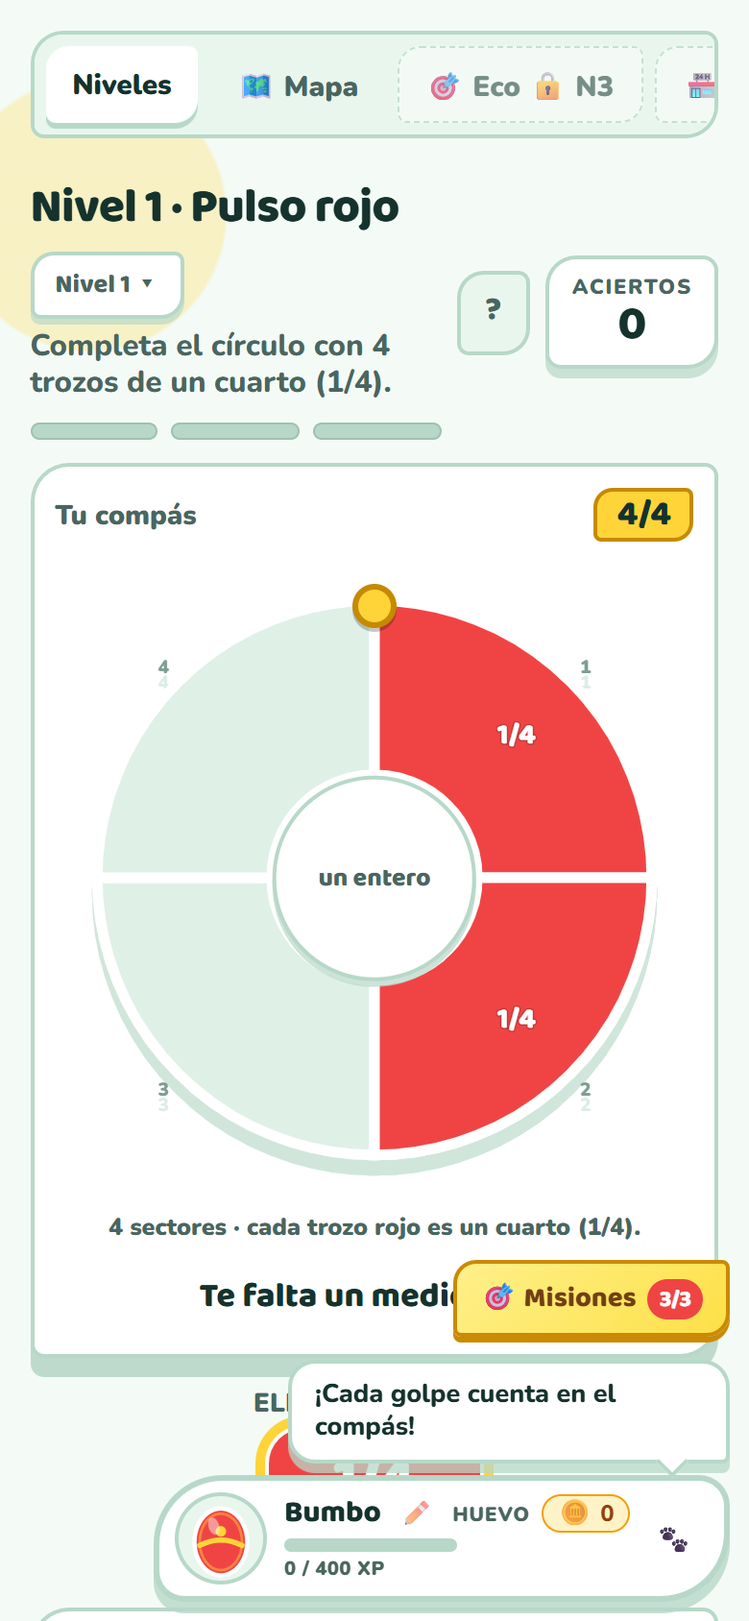
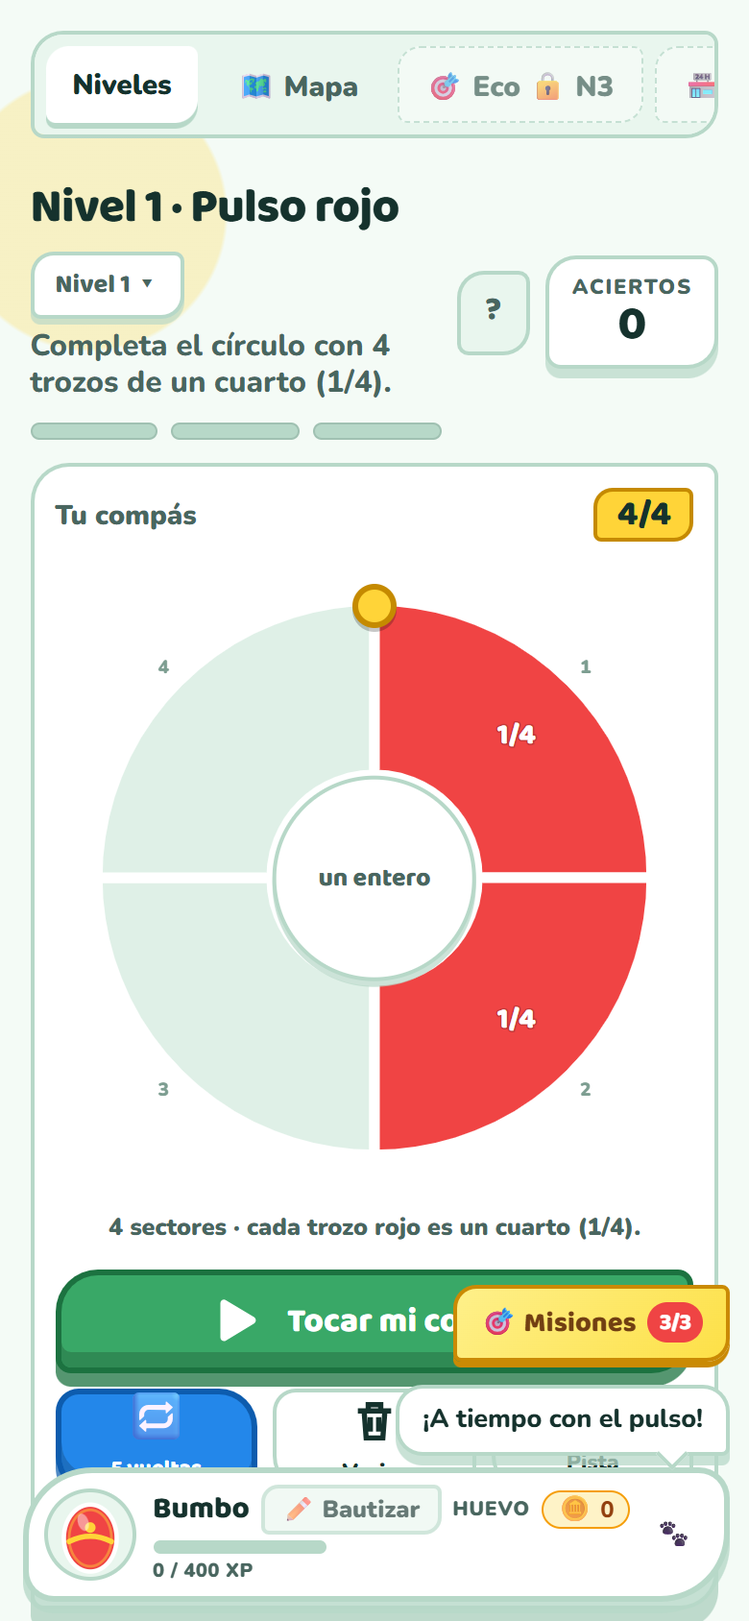
fix: optimización móvil real — ancho del creador, fluidez y orden
Corrige el bug 'Mi ritmo se ve al doble de ancho':
- La fila de 7 pastillas de sonido y los selects con textos largos
  inflaban el min-content del grid a ~640px → el navegador móvil
  hacía zoom-out. Tracks minmax(0,1fr) + selects con etiquetas
  cortas: el creador ahora mide exactamente el viewport (390/360px)
- Compases del creador en 1 columna en cel: blancos táctiles grandes

Fluidez (render en Android):
- Filtros costosos fuera en móvil: drop-shadow de las ruedas SVG,
  pulse simplificado a brillo, blur de 5 modales desactivado

Orden y limpieza (feedback del usuario):
- Botones Tocar/5 vueltas/Vaciar/Pista ahora DENTRO del compás
- Bloques rítmicos más compactos (82x68 en juego, 66x56 en creador)
- '✏ Bautizar' visible con etiqueta (antes casi invisible)
- Creador: opciones secundarias desplegables bajo '⋯ Más opciones'
  (firmas, biblioteca, descargas y compartir)

Verificado a 390px y 360px: 0 desbordes, 0 errores

diff --git a/index.html b/index.html
@@ -308,21 +308,7 @@
       </div>
       <p class="circle-guide" id="circleGuide">4 sectores · cada trozo rojo es un cuarto (1/4).</p>
       <button class="detective-listen" id="detectiveListen" type="button">Escuchar el ritmo secreto</button>
-      <p class="loop-counter" id="loopCounter" aria-live="polite"></p>
-      <p class="feedback" id="feedback">Ahora tú: elige rojo y completa el círculo.</p>
-    </section>
-
-    <section class="tray-wrap" aria-label="Bandeja de bloques rítmicos">
-      <p class="tray-title">ELIGE UN BLOQUE</p>
-      <div class="tray" id="tray"><button type="button" class="rhythm-block red selected" data-type="quarter" aria-pressed="true" aria-label="Pulso: un cuarto, 1/4"><span class="fraction">1/4</span><span class="name">un cuarto</span></button></div>
-    </section>
-
-    <section class="sound-picker" aria-labelledby="soundPickerTitle">
-      <p class="sound-picker-title" id="soundPickerTitle">ELIGE CÓMO SUENA TU RITMO</p>
-      <div class="sound-options" id="soundOptions"><button type="button" class="sound-option sound-drum selected" aria-pressed="true" aria-label="Tambor. Toca para escuchar y elegir."><svg viewBox="0 0 32 32" aria-hidden="true"><ellipse cx="16" cy="8" rx="10" ry="4"></ellipse><path d="M6 8v15c0 2 4.5 4 10 4s10-2 10-4V8M6 16c0 2 4.5 4 10 4s10-2 10-4"></path></svg><strong>Tambor</strong></button><button type="button" class="sound-option sound-kick" aria-pressed="false" aria-label="Bombo. Toca para escuchar y elegir."><svg viewBox="0 0 32 32" aria-hidden="true"><circle cx="16" cy="16" r="11"></circle><circle cx="16" cy="16" r="4"></circle><path d="M5 27h22"></path></svg><strong>Bombo</strong></button><button type="button" class="sound-option sound-snare" aria-pressed="false" aria-label="Caja. Toca para escuchar y elegir."><svg viewBox="0 0 32 32" aria-hidden="true"><ellipse cx="16" cy="10" rx="10" ry="4"></ellipse><path d="M6 10v11c0 2 4.5 4 10 4s10-2 10-4V10M8 23l16-10M8 13l16 10"></path></svg><strong>Caja</strong></button><button type="button" class="sound-option sound-shaker" aria-pressed="false" aria-label="Shaker. Toca para escuchar y elegir."><svg viewBox="0 0 32 32" aria-hidden="true"><path d="M11 5h10l3 6-4 16h-8L8 11l3-6Z"></path><path d="M9 12h14"></path></svg><strong>Shaker</strong></button><button type="button" class="sound-option sound-clap" aria-pressed="false" aria-label="Palmas. Toca para escuchar y elegir."><svg viewBox="0 0 32 32" aria-hidden="true"><path d="M8 17V8a2 2 0 0 1 4 0v7-10a2 2 0 0 1 4 0v10-8a2 2 0 0 1 4 0v9-6a2 2 0 0 1 4 0v10c0 5-4 8-9 8-6 0-9-4-11-8l4-3Z"></path></svg><strong>Palmas</strong></button><button type="button" class="sound-option sound-bell" aria-pressed="false" aria-label="Campana. Toca para escuchar y elegir."><svg viewBox="0 0 32 32" aria-hidden="true"><path d="M8 23h16l-3-4v-6a5 5 0 0 0-10 0v6l-3 4Z"></path><path d="M13 26c1 2 5 2 6 0"></path></svg><strong>Campana</strong></button><button type="button" class="sound-option sound-marimba" aria-pressed="false" aria-label="Marimba cálida. Toca para escuchar y elegir."><svg viewBox="0 0 32 32" aria-hidden="true"><rect x="4" y="6" width="5" height="20" rx="1.5" fill="currentColor"></rect><rect x="11" y="8" width="5" height="18" rx="1.5" fill="currentColor"></rect><rect x="18" y="10" width="5" height="16" rx="1.5" fill="currentColor"></rect><rect x="25" y="12" width="5" height="14" rx="1.5" fill="currentColor"></rect></svg><strong>Marimba cálida</strong></button><button type="button" class="sound-option sound-xylophone" aria-pressed="false" aria-label="Xilófono brillante. Toca para escuchar y elegir."><svg viewBox="0 0 32 32" aria-hidden="true"><polygon points="5,8 27,13 27,24 5,28" fill="none" stroke="currentColor" stroke-width="2"></polygon><line x1="9" y1="9" x2="9" y2="27" stroke="currentColor" stroke-width="2"></line><line x1="14" y1="10" x2="14" y2="26" stroke="currentColor" stroke-width="2"></line><line x1="19" y1="11" x2="19" y2="25" stroke="currentColor" stroke-width="2"></line><line x1="24" y1="12" x2="24" y2="24" stroke="currentColor" stroke-width="2"></line></svg><strong>Xilófono brillante</strong></button><button type="button" class="sound-option sound-flute" aria-pressed="false" aria-label="Flauta dulce. Toca para escuchar y elegir."><svg viewBox="0 0 32 32" aria-hidden="true"><rect x="4" y="13" width="24" height="6" rx="3" fill="none" stroke="currentColor" stroke-width="2"></rect><circle cx="10" cy="16" r="1.5" fill="currentColor"></circle><circle cx="15" cy="16" r="1.5" fill="currentColor"></circle><circle cx="20" cy="16" r="1.5" fill="currentColor"></circle><circle cx="25" cy="16" r="1.5" fill="currentColor"></circle></svg><strong>Flauta dulce</strong></button></div>
-    </section>
-
-    <div class="controls">
+      <div class="controls">
       <button class="play" id="play" type="button" aria-label="Tocar y comprobar el compás">
         <svg viewBox="0 0 32 32" aria-hidden="true"><path d="M8 5.7c0-1.5 1.7-2.4 3-1.6l15.1 9c1.3.8 1.3 2.7 0 3.5L11 25.8c-1.3.8-3-.1-3-1.7V5.7Z"></path></svg>
         <span>Tocar mi compás</span>
@@ -340,6 +326,21 @@
         <span>Pista</span>
       </button>
     </div>
+      <p class="loop-counter" id="loopCounter" aria-live="polite"></p>
+      <p class="feedback" id="feedback">Ahora tú: elige rojo y completa el círculo.</p>
+    </section>
+
+    <section class="tray-wrap" aria-label="Bandeja de bloques rítmicos">
+      <p class="tray-title">ELIGE UN BLOQUE</p>
+      <div class="tray" id="tray"><button type="button" class="rhythm-block red selected" data-type="quarter" aria-pressed="true" aria-label="Pulso: un cuarto, 1/4"><span class="fraction">1/4</span><span class="name">un cuarto</span></button></div>
+    </section>
+
+    <section class="sound-picker" aria-labelledby="soundPickerTitle">
+      <p class="sound-picker-title" id="soundPickerTitle">ELIGE CÓMO SUENA TU RITMO</p>
+      <div class="sound-options" id="soundOptions"><button type="button" class="sound-option sound-drum selected" aria-pressed="true" aria-label="Tambor. Toca para escuchar y elegir."><svg viewBox="0 0 32 32" aria-hidden="true"><ellipse cx="16" cy="8" rx="10" ry="4"></ellipse><path d="M6 8v15c0 2 4.5 4 10 4s10-2 10-4V8M6 16c0 2 4.5 4 10 4s10-2 10-4"></path></svg><strong>Tambor</strong></button><button type="button" class="sound-option sound-kick" aria-pressed="false" aria-label="Bombo. Toca para escuchar y elegir."><svg viewBox="0 0 32 32" aria-hidden="true"><circle cx="16" cy="16" r="11"></circle><circle cx="16" cy="16" r="4"></circle><path d="M5 27h22"></path></svg><strong>Bombo</strong></button><button type="button" class="sound-option sound-snare" aria-pressed="false" aria-label="Caja. Toca para escuchar y elegir."><svg viewBox="0 0 32 32" aria-hidden="true"><ellipse cx="16" cy="10" rx="10" ry="4"></ellipse><path d="M6 10v11c0 2 4.5 4 10 4s10-2 10-4V10M8 23l16-10M8 13l16 10"></path></svg><strong>Caja</strong></button><button type="button" class="sound-option sound-shaker" aria-pressed="false" aria-label="Shaker. Toca para escuchar y elegir."><svg viewBox="0 0 32 32" aria-hidden="true"><path d="M11 5h10l3 6-4 16h-8L8 11l3-6Z"></path><path d="M9 12h14"></path></svg><strong>Shaker</strong></button><button type="button" class="sound-option sound-clap" aria-pressed="false" aria-label="Palmas. Toca para escuchar y elegir."><svg viewBox="0 0 32 32" aria-hidden="true"><path d="M8 17V8a2 2 0 0 1 4 0v7-10a2 2 0 0 1 4 0v10-8a2 2 0 0 1 4 0v9-6a2 2 0 0 1 4 0v10c0 5-4 8-9 8-6 0-9-4-11-8l4-3Z"></path></svg><strong>Palmas</strong></button><button type="button" class="sound-option sound-bell" aria-pressed="false" aria-label="Campana. Toca para escuchar y elegir."><svg viewBox="0 0 32 32" aria-hidden="true"><path d="M8 23h16l-3-4v-6a5 5 0 0 0-10 0v6l-3 4Z"></path><path d="M13 26c1 2 5 2 6 0"></path></svg><strong>Campana</strong></button><button type="button" class="sound-option sound-marimba" aria-pressed="false" aria-label="Marimba cálida. Toca para escuchar y elegir."><svg viewBox="0 0 32 32" aria-hidden="true"><rect x="4" y="6" width="5" height="20" rx="1.5" fill="currentColor"></rect><rect x="11" y="8" width="5" height="18" rx="1.5" fill="currentColor"></rect><rect x="18" y="10" width="5" height="16" rx="1.5" fill="currentColor"></rect><rect x="25" y="12" width="5" height="14" rx="1.5" fill="currentColor"></rect></svg><strong>Marimba cálida</strong></button><button type="button" class="sound-option sound-xylophone" aria-pressed="false" aria-label="Xilófono brillante. Toca para escuchar y elegir."><svg viewBox="0 0 32 32" aria-hidden="true"><polygon points="5,8 27,13 27,24 5,28" fill="none" stroke="currentColor" stroke-width="2"></polygon><line x1="9" y1="9" x2="9" y2="27" stroke="currentColor" stroke-width="2"></line><line x1="14" y1="10" x2="14" y2="26" stroke="currentColor" stroke-width="2"></line><line x1="19" y1="11" x2="19" y2="25" stroke="currentColor" stroke-width="2"></line><line x1="24" y1="12" x2="24" y2="24" stroke="currentColor" stroke-width="2"></line></svg><strong>Xilófono brillante</strong></button><button type="button" class="sound-option sound-flute" aria-pressed="false" aria-label="Flauta dulce. Toca para escuchar y elegir."><svg viewBox="0 0 32 32" aria-hidden="true"><rect x="4" y="13" width="24" height="6" rx="3" fill="none" stroke="currentColor" stroke-width="2"></rect><circle cx="10" cy="16" r="1.5" fill="currentColor"></circle><circle cx="15" cy="16" r="1.5" fill="currentColor"></circle><circle cx="20" cy="16" r="1.5" fill="currentColor"></circle><circle cx="25" cy="16" r="1.5" fill="currentColor"></circle></svg><strong>Flauta dulce</strong></button></div>
+    </section>
+
+    </section>
 
     
     <!-- PANE 3: SALAS ONLINE EN TIEMPO REAL (FASE 8) -->
@@ -428,7 +429,7 @@
       <div class="pet-info">
         <div class="pet-name-row">
           <span class="pet-name" id="petWidgetName">Bumbo</span>
-          <button class="pet-rename-btn" id="petRenameBtn" type="button" title="Bautizar mascota" aria-label="Bautizar mascota">✏</button>
+          <button class="pet-rename-btn" id="petRenameBtn" type="button" title="Bautizar mascota" aria-label="Bautizar mascota">✏ Bautizar</button>
           <span class="pet-stage-tag" id="petWidgetStage">Huevo</span>
           <span class="pet-coins-tag" id="petWidgetCoins" title="Monedas de ritmo"><span class="coin-icon">🪙</span> <span id="petCoinsCount">0</span></span>
         </div>
@@ -595,7 +596,7 @@
         <section class="studio-panel" aria-labelledby="fourBarsTitle">
           <h2 class="panel-title" id="fourBarsTitle">Tus 4 compases</h2>
           <p class="panel-note">Elige un compás, un bloque y toca el círculo. Cada círculo completo vale un entero.</p>
-          <div class="creator-measures" id="creatorMeasures"><article class="creator-measure active"><h3>Compás 1 · 0/8</h3><svg viewBox="0 0 240 240" class="mini-wheel" role="group" aria-label="Compás 1"><path d="M 120 15 A 105 105 0 0 1 194.2462120245875 45.75378797541252 L 149.698484809835 90.301515190165 A 42 42 0 0 0 120 78 Z" class="wheel-slot" tabindex="0" role="button" aria-label="Trozo 1"></path><path d="M 194.2462120245875 45.75378797541252 A 105 105 0 0 1 225 120 L 162 120 A 42 42 0 0 0 149.698484809835 90.301515190165 Z" class="wheel-slot" tabindex="0" role="button" aria-label="Trozo 2"></path><path d="M 225 120 A 105 105 0 0 1 194.2462120245875 194.24621202458746 L 149.698484809835 149.698484809835 A 42 42 0 0 0 162 120 Z" class="wheel-slot" tabindex="0" role="button" aria-label="Trozo 3"></path><path d="M 194.2462120245875 194.24621202458746 A 105 105 0 0 1 120 225 L 120 162 A 42 42 0 0 0 149.698484809835 149.698484809835 Z" class="wheel-slot" tabindex="0" role="button" aria-label="Trozo 4"></path><path d="M 120 225 A 105 105 0 0 1 45.75378797541252 194.2462120245875 L 90.301515190165 149.698484809835 A 42 42 0 0 0 120 162 Z" class="wheel-slot" tabindex="0" role="button" aria-label="Trozo 5"></path><path d="M 45.75378797541252 194.2462120245875 A 105 105 0 0 1 15 120.00000000000001 L 78 120 A 42 42 0 0 0 90.301515190165 149.698484809835 Z" class="wheel-slot" tabindex="0" role="button" aria-label="Trozo 6"></path><path d="M 15 120.00000000000001 A 105 105 0 0 1 45.75378797541249 45.75378797541252 L 90.30151519016499 90.301515190165 A 42 42 0 0 0 78 120 Z" class="wheel-slot" tabindex="0" role="button" aria-label="Trozo 7"></path><path d="M 45.75378797541249 45.75378797541252 A 105 105 0 0 1 119.99999999999999 15 L 119.99999999999999 78 A 42 42 0 0 0 90.30151519016499 90.301515190165 Z" class="wheel-slot" tabindex="0" role="button" aria-label="Trozo 8"></path></svg><select class="measure-sound" aria-label="Sonido del compás 1"><option value="drum">Tambor</option><option value="kick">Bombo</option><option value="snare">Caja</option><option value="shaker">Shaker</option><option value="clap">Palmas</option><option value="bell">Campana</option><option value="piano">Piano juguetón</option><option value="guitar">Cuerda pulsada</option><option value="strings">Colchón de cuerdas</option><option value="marimba">Marimba cálida</option><option value="xylophone">Xilófono brillante</option><option value="flute">Flauta dulce</option><option value="bells" disabled="">Campanitas mágicas (🔒 Mercadito)</option><option value="synth" disabled="">Sintetizador pop (🔒 Mercadito)</option></select></article><article class="creator-measure"><h3>Compás 2 · 0/8</h3><svg viewBox="0 0 240 240" class="mini-wheel" role="group" aria-label="Compás 2"><path d="M 120 15 A 105 105 0 0 1 194.2462120245875 45.75378797541252 L 149.698484809835 90.301515190165 A 42 42 0 0 0 120 78 Z" class="wheel-slot" tabindex="0" role="button" aria-label="Trozo 1"></path><path d="M 194.2462120245875 45.75378797541252 A 105 105 0 0 1 225 120 L 162 120 A 42 42 0 0 0 149.698484809835 90.301515190165 Z" class="wheel-slot" tabindex="0" role="button" aria-label="Trozo 2"></path><path d="M 225 120 A 105 105 0 0 1 194.2462120245875 194.24621202458746 L 149.698484809835 149.698484809835 A 42 42 0 0 0 162 120 Z" class="wheel-slot" tabindex="0" role="button" aria-label="Trozo 3"></path><path d="M 194.2462120245875 194.24621202458746 A 105 105 0 0 1 120 225 L 120 162 A 42 42 0 0 0 149.698484809835 149.698484809835 Z" class="wheel-slot" tabindex="0" role="button" aria-label="Trozo 4"></path><path d="M 120 225 A 105 105 0 0 1 45.75378797541252 194.2462120245875 L 90.301515190165 149.698484809835 A 42 42 0 0 0 120 162 Z" class="wheel-slot" tabindex="0" role="button" aria-label="Trozo 5"></path><path d="M 45.75378797541252 194.2462120245875 A 105 105 0 0 1 15 120.00000000000001 L 78 120 A 42 42 0 0 0 90.301515190165 149.698484809835 Z" class="wheel-slot" tabindex="0" role="button" aria-label="Trozo 6"></path><path d="M 15 120.00000000000001 A 105 105 0 0 1 45.75378797541249 45.75378797541252 L 90.30151519016499 90.301515190165 A 42 42 0 0 0 78 120 Z" class="wheel-slot" tabindex="0" role="button" aria-label="Trozo 7"></path><path d="M 45.75378797541249 45.75378797541252 A 105 105 0 0 1 119.99999999999999 15 L 119.99999999999999 78 A 42 42 0 0 0 90.30151519016499 90.301515190165 Z" class="wheel-slot" tabindex="0" role="button" aria-label="Trozo 8"></path></svg><select class="measure-sound" aria-label="Sonido del compás 2"><option value="drum">Tambor</option><option value="kick">Bombo</option><option value="snare">Caja</option><option value="shaker">Shaker</option><option value="clap">Palmas</option><option value="bell">Campana</option><option value="piano">Piano juguetón</option><option value="guitar">Cuerda pulsada</option><option value="strings">Colchón de cuerdas</option><option value="marimba">Marimba cálida</option><option value="xylophone">Xilófono brillante</option><option value="flute">Flauta dulce</option><option value="bells" disabled="">Campanitas mágicas (🔒 Mercadito)</option><option value="synth" disabled="">Sintetizador pop (🔒 Mercadito)</option></select></article><article class="creator-measure"><h3>Compás 3 · 0/8</h3><svg viewBox="0 0 240 240" class="mini-wheel" role="group" aria-label="Compás 3"><path d="M 120 15 A 105 105 0 0 1 194.2462120245875 45.75378797541252 L 149.698484809835 90.301515190165 A 42 42 0 0 0 120 78 Z" class="wheel-slot" tabindex="0" role="button" aria-label="Trozo 1"></path><path d="M 194.2462120245875 45.75378797541252 A 105 105 0 0 1 225 120 L 162 120 A 42 42 0 0 0 149.698484809835 90.301515190165 Z" class="wheel-slot" tabindex="0" role="button" aria-label="Trozo 2"></path><path d="M 225 120 A 105 105 0 0 1 194.2462120245875 194.24621202458746 L 149.698484809835 149.698484809835 A 42 42 0 0 0 162 120 Z" class="wheel-slot" tabindex="0" role="button" aria-label="Trozo 3"></path><path d="M 194.2462120245875 194.24621202458746 A 105 105 0 0 1 120 225 L 120 162 A 42 42 0 0 0 149.698484809835 149.698484809835 Z" class="wheel-slot" tabindex="0" role="button" aria-label="Trozo 4"></path><path d="M 120 225 A 105 105 0 0 1 45.75378797541252 194.2462120245875 L 90.301515190165 149.698484809835 A 42 42 0 0 0 120 162 Z" class="wheel-slot" tabindex="0" role="button" aria-label="Trozo 5"></path><path d="M 45.75378797541252 194.2462120245875 A 105 105 0 0 1 15 120.00000000000001 L 78 120 A 42 42 0 0 0 90.301515190165 149.698484809835 Z" class="wheel-slot" tabindex="0" role="button" aria-label="Trozo 6"></path><path d="M 15 120.00000000000001 A 105 105 0 0 1 45.75378797541249 45.75378797541252 L 90.30151519016499 90.301515190165 A 42 42 0 0 0 78 120 Z" class="wheel-slot" tabindex="0" role="button" aria-label="Trozo 7"></path><path d="M 45.75378797541249 45.75378797541252 A 105 105 0 0 1 119.99999999999999 15 L 119.99999999999999 78 A 42 42 0 0 0 90.30151519016499 90.301515190165 Z" class="wheel-slot" tabindex="0" role="button" aria-label="Trozo 8"></path></svg><select class="measure-sound" aria-label="Sonido del compás 3"><option value="drum">Tambor</option><option value="kick">Bombo</option><option value="snare">Caja</option><option value="shaker">Shaker</option><option value="clap">Palmas</option><option value="bell">Campana</option><option value="piano">Piano juguetón</option><option value="guitar">Cuerda pulsada</option><option value="strings">Colchón de cuerdas</option><option value="marimba">Marimba cálida</option><option value="xylophone">Xilófono brillante</option><option value="flute">Flauta dulce</option><option value="bells" disabled="">Campanitas mágicas (🔒 Mercadito)</option><option value="synth" disabled="">Sintetizador pop (🔒 Mercadito)</option></select></article><article class="creator-measure"><h3>Compás 4 · 0/8</h3><svg viewBox="0 0 240 240" class="mini-wheel" role="group" aria-label="Compás 4"><path d="M 120 15 A 105 105 0 0 1 194.2462120245875 45.75378797541252 L 149.698484809835 90.301515190165 A 42 42 0 0 0 120 78 Z" class="wheel-slot" tabindex="0" role="button" aria-label="Trozo 1"></path><path d="M 194.2462120245875 45.75378797541252 A 105 105 0 0 1 225 120 L 162 120 A 42 42 0 0 0 149.698484809835 90.301515190165 Z" class="wheel-slot" tabindex="0" role="button" aria-label="Trozo 2"></path><path d="M 225 120 A 105 105 0 0 1 194.2462120245875 194.24621202458746 L 149.698484809835 149.698484809835 A 42 42 0 0 0 162 120 Z" class="wheel-slot" tabindex="0" role="button" aria-label="Trozo 3"></path><path d="M 194.2462120245875 194.24621202458746 A 105 105 0 0 1 120 225 L 120 162 A 42 42 0 0 0 149.698484809835 149.698484809835 Z" class="wheel-slot" tabindex="0" role="button" aria-label="Trozo 4"></path><path d="M 120 225 A 105 105 0 0 1 45.75378797541252 194.2462120245875 L 90.301515190165 149.698484809835 A 42 42 0 0 0 120 162 Z" class="wheel-slot" tabindex="0" role="button" aria-label="Trozo 5"></path><path d="M 45.75378797541252 194.2462120245875 A 105 105 0 0 1 15 120.00000000000001 L 78 120 A 42 42 0 0 0 90.301515190165 149.698484809835 Z" class="wheel-slot" tabindex="0" role="button" aria-label="Trozo 6"></path><path d="M 15 120.00000000000001 A 105 105 0 0 1 45.75378797541249 45.75378797541252 L 90.30151519016499 90.301515190165 A 42 42 0 0 0 78 120 Z" class="wheel-slot" tabindex="0" role="button" aria-label="Trozo 7"></path><path d="M 45.75378797541249 45.75378797541252 A 105 105 0 0 1 119.99999999999999 15 L 119.99999999999999 78 A 42 42 0 0 0 90.30151519016499 90.301515190165 Z" class="wheel-slot" tabindex="0" role="button" aria-label="Trozo 8"></path></svg><select class="measure-sound" aria-label="Sonido del compás 4"><option value="drum">Tambor</option><option value="kick">Bombo</option><option value="snare">Caja</option><option value="shaker">Shaker</option><option value="clap">Palmas</option><option value="bell">Campana</option><option value="piano">Piano juguetón</option><option value="guitar">Cuerda pulsada</option><option value="strings">Colchón de cuerdas</option><option value="marimba">Marimba cálida</option><option value="xylophone">Xilófono brillante</option><option value="flute">Flauta dulce</option><option value="bells" disabled="">Campanitas mágicas (🔒 Mercadito)</option><option value="synth" disabled="">Sintetizador pop (🔒 Mercadito)</option></select></article></div>
+          <div class="creator-measures" id="creatorMeasures"><article class="creator-measure active"><h3>Compás 1 · 0/8</h3><svg viewBox="0 0 240 240" class="mini-wheel" role="group" aria-label="Compás 1"><path d="M 120 15 A 105 105 0 0 1 194.2462120245875 45.75378797541252 L 149.698484809835 90.301515190165 A 42 42 0 0 0 120 78 Z" class="wheel-slot" tabindex="0" role="button" aria-label="Trozo 1"></path><path d="M 194.2462120245875 45.75378797541252 A 105 105 0 0 1 225 120 L 162 120 A 42 42 0 0 0 149.698484809835 90.301515190165 Z" class="wheel-slot" tabindex="0" role="button" aria-label="Trozo 2"></path><path d="M 225 120 A 105 105 0 0 1 194.2462120245875 194.24621202458746 L 149.698484809835 149.698484809835 A 42 42 0 0 0 162 120 Z" class="wheel-slot" tabindex="0" role="button" aria-label="Trozo 3"></path><path d="M 194.2462120245875 194.24621202458746 A 105 105 0 0 1 120 225 L 120 162 A 42 42 0 0 0 149.698484809835 149.698484809835 Z" class="wheel-slot" tabindex="0" role="button" aria-label="Trozo 4"></path><path d="M 120 225 A 105 105 0 0 1 45.75378797541252 194.2462120245875 L 90.301515190165 149.698484809835 A 42 42 0 0 0 120 162 Z" class="wheel-slot" tabindex="0" role="button" aria-label="Trozo 5"></path><path d="M 45.75378797541252 194.2462120245875 A 105 105 0 0 1 15 120.00000000000001 L 78 120 A 42 42 0 0 0 90.301515190165 149.698484809835 Z" class="wheel-slot" tabindex="0" role="button" aria-label="Trozo 6"></path><path d="M 15 120.00000000000001 A 105 105 0 0 1 45.75378797541249 45.75378797541252 L 90.30151519016499 90.301515190165 A 42 42 0 0 0 78 120 Z" class="wheel-slot" tabindex="0" role="button" aria-label="Trozo 7"></path><path d="M 45.75378797541249 45.75378797541252 A 105 105 0 0 1 119.99999999999999 15 L 119.99999999999999 78 A 42 42 0 0 0 90.30151519016499 90.301515190165 Z" class="wheel-slot" tabindex="0" role="button" aria-label="Trozo 8"></path></svg><select class="measure-sound" aria-label="Sonido del compás 1"><option value="drum">Tambor</option><option value="kick">Bombo</option><option value="snare">Caja</option><option value="shaker">Shaker</option><option value="clap">Palmas</option><option value="bell">Campana</option><option value="piano">Piano juguetón</option><option value="guitar">Cuerda pulsada</option><option value="strings">Colchón de cuerdas</option><option value="marimba">Marimba cálida</option><option value="xylophone">Xilófono brillante</option><option value="flute">Flauta dulce</option><option value="bells" disabled="">Campanitas 🔒</option><option value="synth" disabled="">Sintetizador 🔒</option></select></article><article class="creator-measure"><h3>Compás 2 · 0/8</h3><svg viewBox="0 0 240 240" class="mini-wheel" role="group" aria-label="Compás 2"><path d="M 120 15 A 105 105 0 0 1 194.2462120245875 45.75378797541252 L 149.698484809835 90.301515190165 A 42 42 0 0 0 120 78 Z" class="wheel-slot" tabindex="0" role="button" aria-label="Trozo 1"></path><path d="M 194.2462120245875 45.75378797541252 A 105 105 0 0 1 225 120 L 162 120 A 42 42 0 0 0 149.698484809835 90.301515190165 Z" class="wheel-slot" tabindex="0" role="button" aria-label="Trozo 2"></path><path d="M 225 120 A 105 105 0 0 1 194.2462120245875 194.24621202458746 L 149.698484809835 149.698484809835 A 42 42 0 0 0 162 120 Z" class="wheel-slot" tabindex="0" role="button" aria-label="Trozo 3"></path><path d="M 194.2462120245875 194.24621202458746 A 105 105 0 0 1 120 225 L 120 162 A 42 42 0 0 0 149.698484809835 149.698484809835 Z" class="wheel-slot" tabindex="0" role="button" aria-label="Trozo 4"></path><path d="M 120 225 A 105 105 0 0 1 45.75378797541252 194.2462120245875 L 90.301515190165 149.698484809835 A 42 42 0 0 0 120 162 Z" class="wheel-slot" tabindex="0" role="button" aria-label="Trozo 5"></path><path d="M 45.75378797541252 194.2462120245875 A 105 105 0 0 1 15 120.00000000000001 L 78 120 A 42 42 0 0 0 90.301515190165 149.698484809835 Z" class="wheel-slot" tabindex="0" role="button" aria-label="Trozo 6"></path><path d="M 15 120.00000000000001 A 105 105 0 0 1 45.75378797541249 45.75378797541252 L 90.30151519016499 90.301515190165 A 42 42 0 0 0 78 120 Z" class="wheel-slot" tabindex="0" role="button" aria-label="Trozo 7"></path><path d="M 45.75378797541249 45.75378797541252 A 105 105 0 0 1 119.99999999999999 15 L 119.99999999999999 78 A 42 42 0 0 0 90.30151519016499 90.301515190165 Z" class="wheel-slot" tabindex="0" role="button" aria-label="Trozo 8"></path></svg><select class="measure-sound" aria-label="Sonido del compás 2"><option value="drum">Tambor</option><option value="kick">Bombo</option><option value="snare">Caja</option><option value="shaker">Shaker</option><option value="clap">Palmas</option><option value="bell">Campana</option><option value="piano">Piano juguetón</option><option value="guitar">Cuerda pulsada</option><option value="strings">Colchón de cuerdas</option><option value="marimba">Marimba cálida</option><option value="xylophone">Xilófono brillante</option><option value="flute">Flauta dulce</option><option value="bells" disabled="">Campanitas 🔒</option><option value="synth" disabled="">Sintetizador 🔒</option></select></article><article class="creator-measure"><h3>Compás 3 · 0/8</h3><svg viewBox="0 0 240 240" class="mini-wheel" role="group" aria-label="Compás 3"><path d="M 120 15 A 105 105 0 0 1 194.2462120245875 45.75378797541252 L 149.698484809835 90.301515190165 A 42 42 0 0 0 120 78 Z" class="wheel-slot" tabindex="0" role="button" aria-label="Trozo 1"></path><path d="M 194.2462120245875 45.75378797541252 A 105 105 0 0 1 225 120 L 162 120 A 42 42 0 0 0 149.698484809835 90.301515190165 Z" class="wheel-slot" tabindex="0" role="button" aria-label="Trozo 2"></path><path d="M 225 120 A 105 105 0 0 1 194.2462120245875 194.24621202458746 L 149.698484809835 149.698484809835 A 42 42 0 0 0 162 120 Z" class="wheel-slot" tabindex="0" role="button" aria-label="Trozo 3"></path><path d="M 194.2462120245875 194.24621202458746 A 105 105 0 0 1 120 225 L 120 162 A 42 42 0 0 0 149.698484809835 149.698484809835 Z" class="wheel-slot" tabindex="0" role="button" aria-label="Trozo 4"></path><path d="M 120 225 A 105 105 0 0 1 45.75378797541252 194.2462120245875 L 90.301515190165 149.698484809835 A 42 42 0 0 0 120 162 Z" class="wheel-slot" tabindex="0" role="button" aria-label="Trozo 5"></path><path d="M 45.75378797541252 194.2462120245875 A 105 105 0 0 1 15 120.00000000000001 L 78 120 A 42 42 0 0 0 90.301515190165 149.698484809835 Z" class="wheel-slot" tabindex="0" role="button" aria-label="Trozo 6"></path><path d="M 15 120.00000000000001 A 105 105 0 0 1 45.75378797541249 45.75378797541252 L 90.30151519016499 90.301515190165 A 42 42 0 0 0 78 120 Z" class="wheel-slot" tabindex="0" role="button" aria-label="Trozo 7"></path><path d="M 45.75378797541249 45.75378797541252 A 105 105 0 0 1 119.99999999999999 15 L 119.99999999999999 78 A 42 42 0 0 0 90.30151519016499 90.301515190165 Z" class="wheel-slot" tabindex="0" role="button" aria-label="Trozo 8"></path></svg><select class="measure-sound" aria-label="Sonido del compás 3"><option value="drum">Tambor</option><option value="kick">Bombo</option><option value="snare">Caja</option><option value="shaker">Shaker</option><option value="clap">Palmas</option><option value="bell">Campana</option><option value="piano">Piano juguetón</option><option value="guitar">Cuerda pulsada</option><option value="strings">Colchón de cuerdas</option><option value="marimba">Marimba cálida</option><option value="xylophone">Xilófono brillante</option><option value="flute">Flauta dulce</option><option value="bells" disabled="">Campanitas 🔒</option><option value="synth" disabled="">Sintetizador 🔒</option></select></article><article class="creator-measure"><h3>Compás 4 · 0/8</h3><svg viewBox="0 0 240 240" class="mini-wheel" role="group" aria-label="Compás 4"><path d="M 120 15 A 105 105 0 0 1 194.2462120245875 45.75378797541252 L 149.698484809835 90.301515190165 A 42 42 0 0 0 120 78 Z" class="wheel-slot" tabindex="0" role="button" aria-label="Trozo 1"></path><path d="M 194.2462120245875 45.75378797541252 A 105 105 0 0 1 225 120 L 162 120 A 42 42 0 0 0 149.698484809835 90.301515190165 Z" class="wheel-slot" tabindex="0" role="button" aria-label="Trozo 2"></path><path d="M 225 120 A 105 105 0 0 1 194.2462120245875 194.24621202458746 L 149.698484809835 149.698484809835 A 42 42 0 0 0 162 120 Z" class="wheel-slot" tabindex="0" role="button" aria-label="Trozo 3"></path><path d="M 194.2462120245875 194.24621202458746 A 105 105 0 0 1 120 225 L 120 162 A 42 42 0 0 0 149.698484809835 149.698484809835 Z" class="wheel-slot" tabindex="0" role="button" aria-label="Trozo 4"></path><path d="M 120 225 A 105 105 0 0 1 45.75378797541252 194.2462120245875 L 90.301515190165 149.698484809835 A 42 42 0 0 0 120 162 Z" class="wheel-slot" tabindex="0" role="button" aria-label="Trozo 5"></path><path d="M 45.75378797541252 194.2462120245875 A 105 105 0 0 1 15 120.00000000000001 L 78 120 A 42 42 0 0 0 90.301515190165 149.698484809835 Z" class="wheel-slot" tabindex="0" role="button" aria-label="Trozo 6"></path><path d="M 15 120.00000000000001 A 105 105 0 0 1 45.75378797541249 45.75378797541252 L 90.30151519016499 90.301515190165 A 42 42 0 0 0 78 120 Z" class="wheel-slot" tabindex="0" role="button" aria-label="Trozo 7"></path><path d="M 45.75378797541249 45.75378797541252 A 105 105 0 0 1 119.99999999999999 15 L 119.99999999999999 78 A 42 42 0 0 0 90.30151519016499 90.301515190165 Z" class="wheel-slot" tabindex="0" role="button" aria-label="Trozo 8"></path></svg><select class="measure-sound" aria-label="Sonido del compás 4"><option value="drum">Tambor</option><option value="kick">Bombo</option><option value="snare">Caja</option><option value="shaker">Shaker</option><option value="clap">Palmas</option><option value="bell">Campana</option><option value="piano">Piano juguetón</option><option value="guitar">Cuerda pulsada</option><option value="strings">Colchón de cuerdas</option><option value="marimba">Marimba cálida</option><option value="xylophone">Xilófono brillante</option><option value="flute">Flauta dulce</option><option value="bells" disabled="">Campanitas 🔒</option><option value="synth" disabled="">Sintetizador 🔒</option></select></article></div>
 
           <div class="creator-tray tray-wrap" aria-label="Bloques para el creador">
             <p class="tray-title">BLOQUES Y SILENCIOS</p>
@@ -613,14 +614,17 @@
             <button class="creator-action" id="creatorLoop" type="button" aria-pressed="false">🔁 Loop</button>
             <button class="creator-action" id="creatorPlayLayers" type="button" title="Escuchar juntos y a la vez los compases marcados con 🔀">🔀 Capas juntas</button>
             <button class="creator-action" id="creatorClear" type="button">Vaciar compás</button>
-            <button class="creator-action gold" id="creatorSetPetRhythm" type="button" title="Asignar compás activo como firma sonora de tu mascota">🐾 Firma de mi mascota</button>
-            <button class="creator-action gold" id="creatorSetPetSignatureMulti" type="button" title="Guardar como firma sonora TODOS tus compases con notas (secuencia de 2 a 4)">🐾🐾 Firma multi-compás</button>
-            <button class="creator-action" id="creatorSaveToLibrary" type="button" title="Guardar este compás en la biblioteca">💾 Guardar compás</button>
-            <button class="creator-action" id="creatorOpenLibrary" type="button" title="Ver biblioteca de ritmos guardados">📚 Mis Ritmos</button>
-            <button class="creator-action download" id="creatorDownload" type="button">Descargar WAV</button>
-            <button class="creator-action download" id="creatorExportMp3" type="button" title="Descargar audio en MP3">🎵 Descargar MP3</button>
-            <button class="creator-action download" id="creatorExportMp4" type="button" title="Generar y descargar video animado MP4 con visualizador">🎬 Descargar Video MP4</button>
-            <button class="creator-action" id="creatorShare" type="button">Compartir</button>
+            <button class="creator-action more" id="creatorMoreToggle" type="button" aria-expanded="false">⋯ Más opciones</button>
+            <div id="creatorMoreOptions" hidden="">
+              <button class="creator-action gold" id="creatorSetPetRhythm" type="button" title="Asignar compás activo como firma sonora de tu mascota">🐾 Firma de mi mascota</button>
+              <button class="creator-action gold" id="creatorSetPetSignatureMulti" type="button" title="Guardar como firma sonora TODOS tus compases con notas (secuencia de 2 a 4)">🐾🐾 Firma multi-compás</button>
+              <button class="creator-action" id="creatorSaveToLibrary" type="button" title="Guardar este compás en la biblioteca">💾 Guardar compás</button>
+              <button class="creator-action" id="creatorOpenLibrary" type="button" title="Ver biblioteca de ritmos guardados">📚 Mis Ritmos</button>
+              <button class="creator-action download" id="creatorDownload" type="button">Descargar WAV</button>
+              <button class="creator-action download" id="creatorExportMp3" type="button" title="Descargar audio en MP3">🎵 Descargar MP3</button>
+              <button class="creator-action download" id="creatorExportMp4" type="button" title="Generar y descargar video animado MP4 con visualizador">🎬 Descargar Video MP4</button>
+              <button class="creator-action" id="creatorShare" type="button">Compartir</button>
+            </div>
           </div>
           <div class="creator-math-bar" id="creatorMathBar">
             <div>

diff --git a/styles.css b/styles.css
@@ -5172,3 +5172,77 @@
     .cue span { display: block; font-size: .7rem; }
     .cue.off { opacity: .45; filter: grayscale(.6); }
     @media (max-width: 480px) { .cue { width: 64px; } }
+
+    /* ============================================================
+       ANADIDO (Fase 5): optimización móvil del usuario real
+       — ancho del creador, fluidez, bloques compactos y orden —
+       ============================================================ */
+
+    /* 1) "Mi ritmo" al ancho correcto: la fila de pastillas de sonido y los
+       selects largos inflaban el ancho mínimo del grid a ~640px (zoom-out).
+       Tracks con mínimo 0: el grid nunca crece más allá del contenedor. */
+    @media (max-width: 800px) {
+      .creator-grid { grid-template-columns: minmax(0, 1fr) !important; }
+    }
+    @media (max-width: 520px) {
+      .creator-measures { grid-template-columns: minmax(0, 1fr); }
+      .measure-sound { font-size: .82rem; }
+      .studio-panel, .learn-panel, .lab-panel { min-width: 0; }
+      .creator-sound-pill-bar { min-width: 0; }
+      .creator-measure { min-width: 0; }
+    }
+
+    /* 2) Fluidez: quitar filtros costosos en móviles (Android) */
+    @media (max-width: 800px) {
+      .rhythm-wheel, .mini-wheel { filter: none; }
+      .wheel-fill.pulse { filter: brightness(1.3); transform: scale(1.02); }
+      .intro-pet svg { filter: none; }
+      .coop-chest-modal, .weekly-missions-modal, .duel-win-modal,
+      .rhythm-library-modal, .math-academy-modal { backdrop-filter: none; }
+    }
+
+    /* 3) Bloques más compactos y ordenados */
+    .rhythm-block { width: min(21vw, 108px); min-width: 76px; min-height: 68px; border-radius: 14px 6px 14px 6px; }
+    .rhythm-block .fraction { font-size: 1.55rem; }
+    .rhythm-block .name { font-size: .64rem; }
+    .creator-tray .rhythm-block { width: min(17vw, 86px); min-width: 66px; min-height: 56px; }
+    .creator-tray .rhythm-block .fraction { font-size: 1.22rem; }
+    .tray { gap: 8px; }
+    .creator-tray .tray { gap: 6px; }
+
+    /* 4) Controles DENTRO del compás: fila compacta bajo el círculo */
+    .board .controls {
+      display: flex;
+      flex-wrap: wrap;
+      gap: 8px;
+      align-items: stretch;
+      margin: 14px 0 0;
+    }
+    .board .controls .play { flex: 1 1 130px; margin: 0; min-height: 54px; }
+    .board .controls .loop,
+    .board .controls .clear,
+    .board .controls .cue { flex: 0 0 auto; margin: 0; min-height: 54px; }
+    @media (max-width: 480px) {
+      .board .controls .play { flex: 1 1 100%; }
+      .board .controls .loop,
+      .board .controls .clear,
+      .board .controls .cue { flex: 1 1 30%; width: auto; }
+    }
+
+    /* 5) Botón "Bautizar" visible y claro */
+    .pet-rename-btn {
+      border: 2px solid var(--line);
+      background: var(--surface-2);
+      color: var(--ink);
+      padding: 5px 9px;
+      font-size: .78rem;
+      font-weight: 900;
+      border-radius: 9px 4px 9px 4px;
+    }
+    .pet-rename-btn:hover { background: var(--surface); }
+
+    /* 6) Opciones desplegables del creador */
+    #creatorMoreOptions { display: contents; }
+    #creatorMoreOptions[hidden] { display: none; }
+    .creator-action.more { border-style: dashed; }
+    .creator-action.more[aria-expanded="true"] { border-style: solid; background: var(--surface-2); }

diff --git a/main.js b/main.js
@@ -1973,7 +1973,7 @@ import { LEVELS, CHALLENGES, MATH_PROBLEMS, LEVEL_LESSONS, PETS } from './data.j
             option.value = key;
             var isPremium = (key === 'bells' || key === 'synth');
             var isUnlocked = !isPremium || isItemOwned('sound_' + key);
-            option.textContent = SOUNDS[key].name + (!isUnlocked ? ' (🔒 Mercadito)' : '');
+            option.textContent = SOUNDS[key].name + (!isUnlocked ? ' 🔒' : '');
             if (!isUnlocked) option.disabled = true;
             option.selected = bar.sound === key;
             select.appendChild(option);
@@ -5281,6 +5281,18 @@ import { LEVELS, CHALLENGES, MATH_PROBLEMS, LEVEL_LESSONS, PETS } from './data.j
       }
 
       /* — Añadido (Fase 1): firma sonora multi-compás (2 a 4 compases en secuencia) — */
+      /* — Añadido (Fase 5): botón "Más opciones" del creador — */
+      var creatorMoreToggle = document.getElementById('creatorMoreToggle');
+      if (creatorMoreToggle) {
+        creatorMoreToggle.addEventListener('click', function () {
+          var box = document.getElementById('creatorMoreOptions');
+          var abierto = !box.hidden;
+          box.hidden = abierto;
+          creatorMoreToggle.setAttribute('aria-expanded', String(!abierto));
+          creatorMoreToggle.textContent = abierto ? '⋯ Más opciones' : '✕ Cerrar opciones';
+        });
+      }
+
       var creatorSetPetSignatureMulti = document.getElementById('creatorSetPetSignatureMulti');
       if (creatorSetPetSignatureMulti) {
         creatorSetPetSignatureMulti.addEventListener('click', function () {
